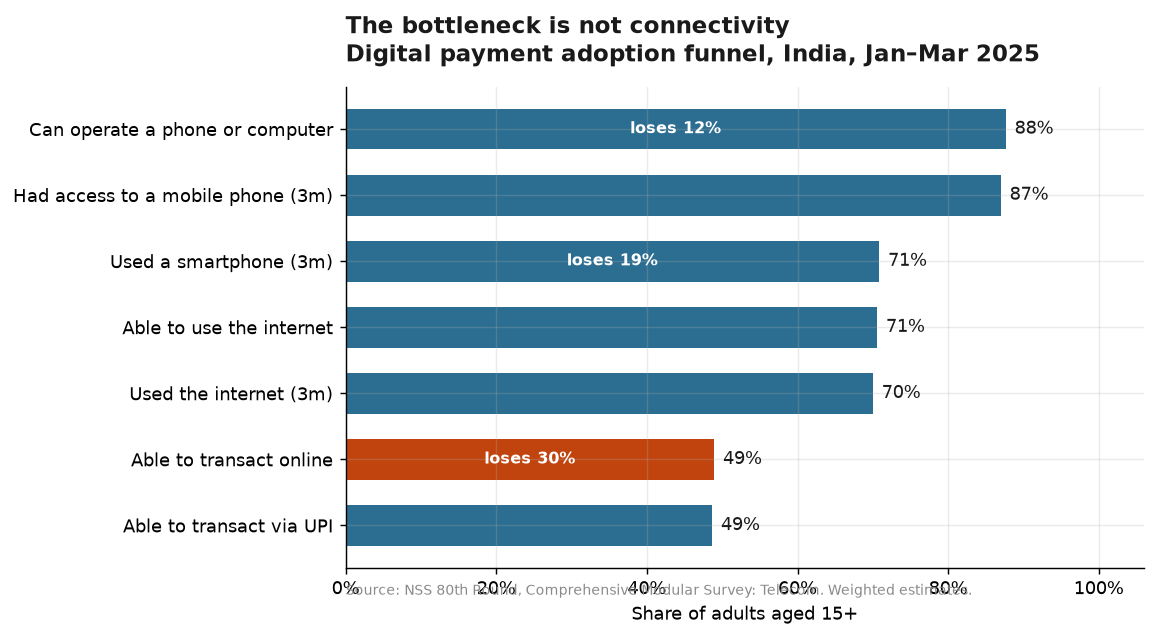
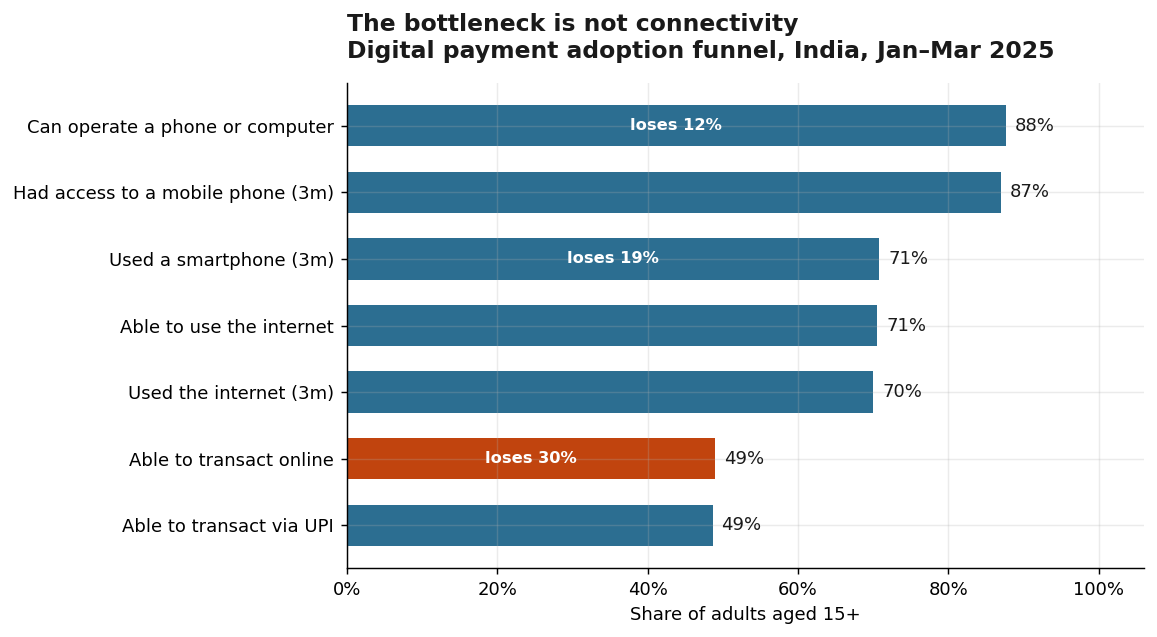
Remove source annotations from figures

diff --git a/src/build_charts.py b/src/build_charts.py
@@ -57,9 +57,6 @@ def fig1_funnel(adults):
     ax.set_title("The bottleneck is not connectivity\n"
                  "Digital payment adoption funnel, India, Jan–Mar 2025",
                  loc="left", fontsize=13, weight="bold", color=INK, pad=14)
-    ax.text(0, -1.05, "Source: NSS 80th Round, Comprehensive Modular Survey: Telecom. "
-                      "Weighted estimates.",
-            fontsize=8, color=MUTED, transform=ax.get_yaxis_transform())
     fig.tight_layout()
     fig.savefig(OUTPUTS / "fig1_funnel.png", bbox_inches="tight")
     plt.close(fig)
@@ -95,8 +92,6 @@ def fig2_barriers(hh):
     ax.set_title("Skill, not supply, keeps households offline\n"
                  "Stated main reason for no internet at home, 4.2 crore households",
                  loc="left", fontsize=13, weight="bold", color=INK, pad=14)
-    ax.text(0, -0.9, "Source: NSS 80th Round CMS:T, Block 5 Q5. Weighted estimates.",
-            fontsize=8, color=MUTED, transform=ax.get_yaxis_transform())
     fig.tight_layout()
     fig.savefig(OUTPUTS / "fig2_barriers.png", bbox_inches="tight")
     plt.close(fig)
@@ -136,9 +131,6 @@ def fig3_conversion(adults):
     ax.set_title("The gap survives connectivity\n"
                  "Share able to transact online, among adults who already use the internet",
                  loc="left", fontsize=13, weight="bold", color=INK, pad=14)
-    ax.text(0, -0.16, "Source: NSS 80th Round CMS:T. Base: adults 15+ who used the "
-                      "internet in the last 3 months.",
-            fontsize=8, color=MUTED, transform=ax.transAxes)
     fig.tight_layout()
     fig.savefig(OUTPUTS / "fig3_conversion.png", bbox_inches="tight")
     plt.close(fig)
@@ -167,9 +159,6 @@ def fig4_states(adults):
     ax.set_title("Two different problems, depending on the state\n"
                  "UPI capability by state and sex; bar length is the gender gap",
                  loc="left", fontsize=13, weight="bold", color=INK, pad=14)
-    ax.text(0, -0.045, "Source: NSS 80th Round CMS:T. States with fewer than 30 sample "
-                       "adults suppressed.",
-            fontsize=8, color=MUTED, transform=ax.transAxes)
     fig.tight_layout()
     fig.savefig(OUTPUTS / "fig4_states.png", bbox_inches="tight")
     plt.close(fig)

diff --git a/README.md b/README.md
@@ -39,13 +39,27 @@ without home internet: digital literacy 47.6%, cost 10.5%, availability **2.8%**
 
 **3. The gap is 60.6% female, and it survives connectivity.** Among adults who
 *already use the internet*, 79% of men can transact online versus 58% of women.
-The within-state gender gap ranges from 5 points (Mizoram) to 46 points
-(D&N Haveli and Daman & Diu).
 
 ![The gap survives connectivity](outputs/fig3_conversion.png)
 
 **4. 45+ is over half the gap.** Capability falls from 67.5% at 25–34 to 31.3%
 at 45–59 to 12.4% at 60+.
+
+**5. Two states with the same headline number can have opposite problems.**
+Mizoram (67.2% capable) and D&N Haveli & Daman & Diu (66.1%) sit one place apart
+in the national ranking, but Mizoram's gender gap is 5 points and D&N Haveli's
+is 46. Comparable overall capability, completely different outcomes for women —
+so the gender gap is not simply a function of development level.
+
+Tripura is the sharpest outlier in the other direction: **22.7% capable, 14
+points below the next-lowest state**, on a sample of 1,457 adults. That is a
+break in the distribution, not a tail.
+
+![UPI capability by state and sex](outputs/fig4_states.png)
+
+*Read the small UTs with caution — Andaman & Nicobar, Lakshadweep and Ladakh
+rest on a few hundred sample adults each, and no confidence intervals are
+computed yet (see Limitations).*
 
 Full argument and recommendations: [`docs/MEMO.md`](docs/MEMO.md).
 
@@ -143,7 +157,8 @@ them because the answer is already determined. Every rate here is therefore over
 - **One quarter.** Jan–Mar 2025. No trend, no causal identification.
 - **No standard errors.** The methodology document gives the variance formula
   for the two-stage SRSWOR design; it is not yet implemented. Point estimates
-  only, and state-level cells are the most affected.
+  only. Large states are unaffected in practice, but small UTs rest on a few
+  hundred observations and their rankings should not be read closely.
 - **MPCE deliberately unused.** MoSPI's user note warns against building
   estimates on auxiliary variables; CMS-T is not a consumption survey.
 - **NPCI merge outstanding.** `data/processed/state_level.csv` reserves columns
